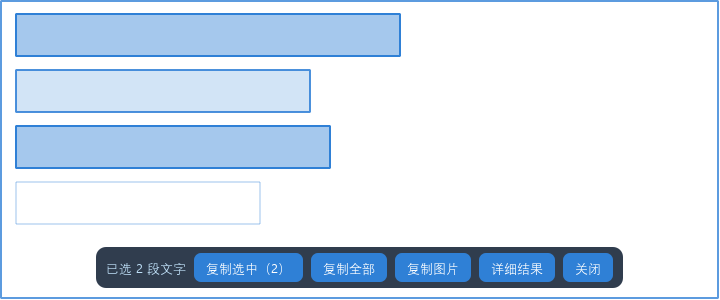
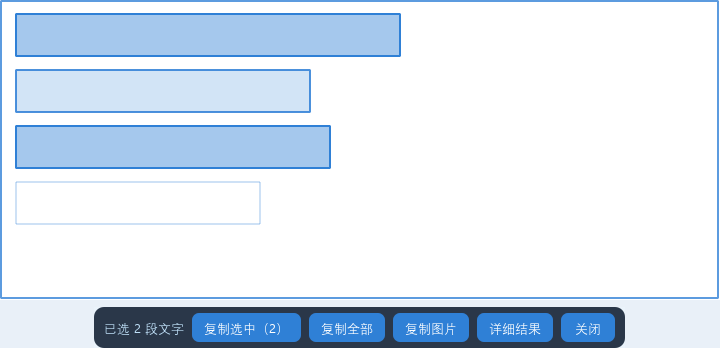
修复小区域浮层不可用：操作条改为独立窗口移到框选区域外，小区域自动放大到最小可用尺寸；v1.1.1

diff --git a/src/onscreen_result.py b/src/onscreen_result.py
@@ -1,7 +1,10 @@
 """屏幕上就地结果面板：识别完成后直接在屏幕原位置选文字复制，无需切回主窗口。
 
-对应交互：快捷键 → 框选 → 屏幕原位置出现结果浮层（截图 + 文字高亮框）
-→ 点击/拖拽框选文字段 → 底部操作条「复制选中 / 复制全部 / 复制图片 / 详细结果 / 关闭」。
+交互：快捷键 → 框选 → 屏幕原位置出现结果浮层（截图 + 文字高亮框）
+→ 点击/拖拽框选文字段 → 操作条「复制选中 / 复制全部 / 复制图片 / 详细结果 / 关闭」。
+
+注意：操作条是**独立的置顶窗口**，位置在框选区域**外面**（下方优先、上方兜底），
+这样即使识别区域很小，也不会遮住文字、也能随时关闭。
 """
 from __future__ import annotations
 
@@ -11,14 +14,67 @@ from PySide6.QtWidgets import (
     QHBoxLayout,
     QLabel,
     QPushButton,
+    QVBoxLayout,
     QWidget,
 )
+
+MIN_PANEL_W = 380   # 面板最小显示宽度（过小区域会自动放大，便于点选）
+MIN_PANEL_H = 170
+BAR_MARGIN = 8      # 操作条与面板的间距
+
+
+class OnScreenToolbar(QWidget):
+    """独立置顶操作条（位于框选区域外）。"""
+
+    def __init__(self, owner: "OnScreenResult"):
+        super().__init__(None)
+        self._owner = owner
+        self.setWindowFlags(
+            Qt.FramelessWindowHint | Qt.WindowStaysOnTopHint | Qt.Tool
+        )
+        self.setAttribute(Qt.WA_ShowWithoutActivating, True)
+
+        outer = QVBoxLayout(self)
+        outer.setContentsMargins(0, 0, 0, 0)
+        bar = QWidget()
+        bar.setObjectName("Bar")
+        bar.setStyleSheet("QWidget#Bar { background: rgba(28, 42, 60, 238); border-radius: 10px; }")
+        outer.addWidget(bar)
+
+        lay = QHBoxLayout(bar)
+        lay.setContentsMargins(10, 6, 10, 6)
+        lay.setSpacing(8)
+
+        self.label_hint = QLabel("点击或拖拽框选文字")
+        self.label_hint.setStyleSheet("color: #BFE0F8; background: transparent;")
+        lay.addWidget(self.label_hint)
+
+        self.btn_copy_sel = QPushButton("复制选中")
+        self.btn_copy_sel.clicked.connect(owner.copy_selected)
+        self.btn_copy_all = QPushButton("复制全部")
+        self.btn_copy_all.clicked.connect(owner.copy_all)
+        self.btn_copy_img = QPushButton("复制图片")
+        self.btn_copy_img.clicked.connect(owner.copy_image)
+        self.btn_detail = QPushButton("详细结果")
+        self.btn_detail.clicked.connect(owner.open_detail.emit)
+        self.btn_close = QPushButton("关闭")
+        self.btn_close.clicked.connect(owner.close)
+        for b in (self.btn_copy_sel, self.btn_copy_all, self.btn_copy_img,
+                  self.btn_detail, self.btn_close):
+            b.setCursor(Qt.PointingHandCursor)
+            b.setFocusPolicy(Qt.NoFocus)   # 焦点留在面板上，Esc 始终有效
+            b.setStyleSheet(
+                "QPushButton { background: #2F80D6; color: white; border: none;"
+                " border-radius: 7px; padding: 6px 12px; }"
+                "QPushButton:hover { background: #2A6FB8; }"
+            )
+            lay.addWidget(b)
 
 
 class OnScreenResult(QWidget):
     """覆盖在截图原位置上的可选中结果浮层。"""
 
-    open_detail = Signal()   # 用户点「详细结果」
+    open_detail = Signal()
     closed = Signal()
 
     def __init__(self, pixmap: QPixmap, items: list[dict], screen, target_rect: QRect,
@@ -32,7 +88,6 @@ class OnScreenResult(QWidget):
         self._hover: int | None = None
         self._band: QRect | None = None
         self._band_start: QPoint | None = None
-        self._status = ""
 
         self.setWindowFlags(
             Qt.FramelessWindowHint | Qt.WindowStaysOnTopHint | Qt.Tool
@@ -41,68 +96,46 @@ class OnScreenResult(QWidget):
         self.setFocusPolicy(Qt.StrongFocus)
         self.setMouseTracking(True)
 
-        # 面板几何：优先贴合原框选位置，超出屏幕时居中缩放
-        geo = target_rect if target_rect is not None and not target_rect.isEmpty() else None
-        if geo is None and screen is not None:
-            geo = screen.geometry()
-        if geo is None:
-            geo = QRect(100, 100, self._pixmap.width(), self._pixmap.height())
-        scr_geo = screen.geometry() if screen is not None else geo
-        if geo.width() > scr_geo.width() or geo.height() > scr_geo.height():
-            w = min(geo.width(), scr_geo.width() - 40)
-            h = min(geo.height(), scr_geo.height() - 40)
-            geo = QRect(scr_geo.x() + (scr_geo.width() - w) // 2,
-                        scr_geo.y() + (scr_geo.height() - h) // 2, w, h)
-        self.setGeometry(geo)
+        scr_geo = screen.geometry() if screen is not None else QRect(0, 0, 1920, 1080)
+        geo = target_rect if target_rect is not None and not target_rect.isEmpty() else scr_geo
+        # 先保证不超出屏幕
+        w = min(geo.width(), scr_geo.width())
+        h = min(geo.height(), scr_geo.height())
+        x = max(scr_geo.x(), min(geo.x(), scr_geo.x() + scr_geo.width() - w))
+        y = max(scr_geo.y(), min(geo.y(), scr_geo.y() + scr_geo.height() - h))
+        # 区域过小时放大到最小可用尺寸（便于点选；位置仍贴近原处）
+        w = min(max(w, MIN_PANEL_W), scr_geo.width())
+        h = min(max(h, MIN_PANEL_H), scr_geo.height())
+        x = max(scr_geo.x(), min(x, scr_geo.x() + scr_geo.width() - w))
+        y = max(scr_geo.y(), min(y, scr_geo.y() + scr_geo.height() - h))
+        self.setGeometry(QRect(x, y, w, h))
 
         # 物理像素 → 面板坐标的缩放系数
         self._scale = (self.width() / self._pixmap.width()) if self._pixmap.width() else 1.0
         self._dpr = dpr or 1.0
 
-        self._build_toolbar()
-        self._layout_toolbar()
+        self.toolbar = OnScreenToolbar(self)
+        self._update_status()
 
-    # ---------- 操作条 ----------
-    def _build_toolbar(self) -> None:
-        self.toolbar = QWidget(self)
-        self.toolbar.setStyleSheet(
-            "background: rgba(28, 42, 60, 232); border-radius: 10px;"
-        )
-        lay = QHBoxLayout(self.toolbar)
-        lay.setContentsMargins(10, 6, 10, 6)
-        lay.setSpacing(8)
-
-        self.label_hint = QLabel("点击或拖拽框选文字")
-        self.label_hint.setStyleSheet("color: #BFE0F8; background: transparent;")
-        lay.addWidget(self.label_hint)
-
-        self.btn_copy_sel = QPushButton("复制选中")
-        self.btn_copy_sel.clicked.connect(self.copy_selected)
-        self.btn_copy_all = QPushButton("复制全部")
-        self.btn_copy_all.clicked.connect(self.copy_all)
-        self.btn_copy_img = QPushButton("复制图片")
-        self.btn_copy_img.clicked.connect(self.copy_image)
-        self.btn_detail = QPushButton("详细结果")
-        self.btn_detail.clicked.connect(self.open_detail.emit)
-        self.btn_close = QPushButton("关闭")
-        self.btn_close.clicked.connect(self.close)
-        for b in (self.btn_copy_sel, self.btn_copy_all, self.btn_copy_img,
-                  self.btn_detail, self.btn_close):
-            b.setCursor(Qt.PointingHandCursor)
-            b.setStyleSheet(
-                "QPushButton { background: #2F80D6; color: white; border: none;"
-                " border-radius: 7px; padding: 6px 12px; }"
-                "QPushButton:hover { background: #2A6FB8; }"
-            )
-            lay.addWidget(b)
-
+    # ---------- 操作条位置：始终在面板外面 ----------
     def _layout_toolbar(self) -> None:
         self.toolbar.adjustSize()
-        w = self.toolbar.width()
-        h = self.toolbar.height()
-        x = max(8, (self.width() - w) // 2)
-        y = max(8, self.height() - h - 12)
-        self.toolbar.move(x, y)
+        tw, th = self.toolbar.width(), self.toolbar.height()
+        scr = self._screen.geometry() if self._screen is not None else self.geometry()
+
+        x = self.geometry().center().x() - tw // 2
+        x = max(scr.x() + BAR_MARGIN, min(x, scr.x() + scr.width() - tw - BAR_MARGIN))
+
+        below = self.geometry().bottom() + BAR_MARGIN
+        above = self.geometry().top() - th - BAR_MARGIN
+        if below + th <= scr.y() + scr.height() - BAR_MARGIN:
+            y = below                      # 下方优先
+        elif above >= scr.y() + BAR_MARGIN:
+            y = above                      # 下方不够 → 放上方
+        else:
+            # 上下都放不下（极端情况）：贴在屏幕底部，且尽量不遮面板
+            y = scr.y() + scr.height() - th - BAR_MARGIN
+        self.toolbar.setGeometry(QRect(x, y, tw, th))
         self.toolbar.raise_()
 
     # ---------- 绘制 ----------
@@ -133,7 +166,6 @@ class OnScreenResult(QWidget):
             p.setBrush(QColor(74, 144, 226, 40))
             p.drawRect(self._band)
 
-        # 外边框
         p.setPen(QPen(QColor(47, 128, 214, 200), 2))
         p.setBrush(Qt.NoBrush)
         p.drawRect(self.rect().adjusted(1, 1, -2, -2))
@@ -168,7 +200,6 @@ class OnScreenResult(QWidget):
             self._update_status()
             self.update()
             return
-        # 空白处：开始框选
         if not (ev.modifiers() & Qt.ControlModifier):
             self._selected.clear()
         self._band_start = pos
@@ -223,8 +254,8 @@ class OnScreenResult(QWidget):
     # ---------- 操作 ----------
     def _update_status(self) -> None:
         n = len(self._selected)
-        self.label_hint.setText(f"已选 {n} 段文字" if n else "点击或拖拽框选文字")
-        self.btn_copy_sel.setText(f"复制选中（{n}）" if n else "复制选中")
+        self.toolbar.label_hint.setText(f"已选 {n} 段文字" if n else "点击或拖拽框选文字")
+        self.toolbar.btn_copy_sel.setText(f"复制选中（{n}）" if n else "复制选中")
         self._layout_toolbar()
 
     def selected_text(self) -> str:
@@ -236,26 +267,26 @@ class OnScreenResult(QWidget):
     def copy_selected(self) -> None:
         text = self.selected_text()
         if not text:
-            self.label_hint.setText("请先点击或框选要复制的文字")
+            self.toolbar.label_hint.setText("请先点击或框选要复制的文字")
             self._layout_toolbar()
             return
         QGuiApplication.clipboard().setText(text)
-        self.label_hint.setText(f"已复制 {len(self._selected)} 段文字 ✓")
+        self.toolbar.label_hint.setText(f"已复制 {len(self._selected)} 段文字 ✓")
         self._layout_toolbar()
 
     def copy_all(self) -> None:
         text = "\n".join(it["text"] for it in self._items if str(it.get("text", "")).strip())
         if not text:
-            self.label_hint.setText("未识别到文字")
+            self.toolbar.label_hint.setText("未识别到文字")
             self._layout_toolbar()
             return
         QGuiApplication.clipboard().setText(text)
-        self.label_hint.setText("已复制全部文字 ✓")
+        self.toolbar.label_hint.setText("已复制全部文字 ✓")
         self._layout_toolbar()
 
     def copy_image(self) -> None:
         QGuiApplication.clipboard().setImage(self._pixmap.toImage())
-        self.label_hint.setText("已复制图片 ✓")
+        self.toolbar.label_hint.setText("已复制图片 ✓")
         self._layout_toolbar()
 
     def resizeEvent(self, ev):
@@ -265,11 +296,17 @@ class OnScreenResult(QWidget):
 
     def showEvent(self, ev):
         super().showEvent(ev)
+        self.toolbar.show()
         self._layout_toolbar()
         self.raise_()
+        self.toolbar.raise_()
         self.activateWindow()
         self.setFocus()
 
     def closeEvent(self, ev):
+        try:
+            self.toolbar.close()
+        except Exception:  # noqa: BLE001
+            pass
         self.closed.emit()
         super().closeEvent(ev)

diff --git a/tests/test_selection_features.py b/tests/test_selection_features.py
@@ -40,6 +40,12 @@ def test_onscreen(app: QApplication) -> None:
     panel.show()
     app.processEvents()
 
+    # 0) 操作条必须是独立窗口且位于面板外面（不被面板遮挡）
+    assert panel.toolbar.isVisible(), "操作条未显示"
+    assert not panel.toolbar.geometry().intersects(panel.geometry()), (
+        f"操作条压在面板上：{panel.toolbar.geometry()} vs {panel.geometry()}"
+    )
+
     # 1) 点击第 1 段 → 选中 1 段 → 复制
     QTest.mouseClick(panel, Qt.LeftButton, Qt.NoModifier, QPoint(60, 25))
     app.processEvents()
@@ -69,13 +75,34 @@ def test_onscreen(app: QApplication) -> None:
     app.processEvents()
     assert panel._selected == {0, 1}, panel._selected
 
-    # 5) Esc 关闭
+    # 5) Esc 关闭（操作条一并关闭）
     closed = {"v": False}
     panel.closed.connect(lambda: closed.update(v=True))
     QTest.keyClick(panel, Qt.Key_Escape)
     app.processEvents()
     assert closed["v"], "Esc 未关闭浮层"
+    assert not panel.toolbar.isVisible(), "操作条未随面板关闭"
     print("PASS：屏幕浮层就地选择复制")
+
+
+def test_tiny_region(app: QApplication) -> None:
+    """极小框选区域：面板自动放大到可用尺寸，操作条仍在外面且能关闭。"""
+    from src.onscreen_result import MIN_PANEL_H, MIN_PANEL_W
+
+    screen = QGuiApplication.primaryScreen()
+    panel = OnScreenResult(make_pixmap(120, 40), ITEMS, screen, QRect(100, 100, 120, 40), dpr=1.0)
+    panel.show()
+    app.processEvents()
+    assert panel.width() >= MIN_PANEL_W, f"面板过小：{panel.width()}"
+    assert panel.height() >= MIN_PANEL_H, f"面板过小：{panel.height()}"
+    assert not panel.toolbar.geometry().intersects(panel.geometry()), "小区域时操作条压住面板"
+
+    closed = {"v": False}
+    panel.closed.connect(lambda: closed.update(v=True))
+    QTest.mouseClick(panel.toolbar.btn_close, Qt.LeftButton)
+    app.processEvents()
+    assert closed["v"], "点「关闭」未关闭浮层"
+    print("PASS：极小区域可用性（放大 + 操作条在外 + 可关闭）")
 
 
 def test_result_multiselect(app: QApplication, tmp: Path) -> None:
@@ -110,6 +137,7 @@ def main() -> int:
     apply_theme(app)
     tmp = Path(tempfile.mkdtemp(prefix="screenscan_sel_"))
     test_onscreen(app)
+    test_tiny_region(app)
     test_result_multiselect(app, tmp)
     print("PASS：新交互测试全部通过")
     return 0

diff --git a/scripts/make_screenshots.py b/scripts/make_screenshots.py
@@ -10,7 +10,8 @@ os.environ.setdefault("QT_QPA_PLATFORM", "offscreen")
 os.environ.setdefault("QT_QPA_FONTDIR", r"C:\Windows\Fonts")
 sys.path.insert(0, str(Path(__file__).parent.parent))
 
-from PySide6.QtGui import QPixmap
+from PySide6.QtCore import QRect
+from PySide6.QtGui import QColor, QGuiApplication, QPainter, QPixmap
 from PySide6.QtWidgets import QApplication
 
 from src.config import Config
@@ -70,7 +71,20 @@ def main() -> int:
     panel._hover = 1
     panel._update_status()
     app.processEvents()
-    panel.grab().save(str(OUT / "onscreen.png"), "PNG")
+    # 操作条是独立窗口，合成到一张图里便于说明
+    panel_grab = panel.grab()
+    bar_grab = panel.toolbar.grab()
+    pg, bg = panel.geometry(), panel.toolbar.geometry()
+    union = pg.united(bg)
+    canvas = QPixmap(union.width(), union.height())
+    canvas.fill(QColor(233, 240, 248))
+    from PySide6.QtGui import QPainter
+
+    painter = QPainter(canvas)
+    painter.drawPixmap(pg.x() - union.x(), pg.y() - union.y(), panel_grab)
+    painter.drawPixmap(bg.x() - union.x(), bg.y() - union.y(), bar_grab)
+    painter.end()
+    canvas.save(str(OUT / "onscreen.png"), "PNG")
     panel.close()
 
     print(f"OK: {OUT}")

diff --git a/src/config.py b/src/config.py
@@ -1,4 +1,4 @@
-"""屏幕扫描助手 - 配置与数据目录管理。"""
+"""屏幕扫描助手 - 配置与数据目录管理。"""
 from __future__ import annotations
 
 import json
@@ -7,7 +7,7 @@ from pathlib import Path
 
 APP_NAME = "ScreenScan"
 APP_TITLE = "屏幕扫描助手"
-APP_VERSION = "1.1.0"
+APP_VERSION = "1.1.1"
 
 DEFAULTS = {
     "hotkey_capture": "alt+s",        # 框选截图识别热键 (pynput 格式)
@@ -64,3 +64,4 @@ class Config:
     def set(self, key: str, value) -> None:
         self.data[key] = value
         self.save()
+

diff --git a/README.md b/README.md
@@ -23,7 +23,7 @@
 
 ## 三、屏幕浮层（识别后直接选字复制）
 
-识别完成后，结果浮层出现在**截图的原位置**（文字上带蓝色高亮框）：
+识别完成后，结果浮层出现在**截图的原位置**（文字上带蓝色高亮框），**操作条位于框选区域外**（下方优先，下方空间不足则显示在上方），小区域也不会被遮挡：
 
 | 操作 | 说明 |
 |------|------|

diff --git a/docs/使用说明.md b/docs/使用说明.md
@@ -29,7 +29,7 @@
 
 ## 四、屏幕浮层：识别后直接选字复制
 
-识别完成后，截图原位置会出现结果浮层，文字上带蓝色高亮框：
+识别完成后，截图原位置会出现结果浮层，文字上带蓝色高亮框；**操作条在框选区域外面**（下方优先，下方放不下则在上方），所以再小的区域也不会被遮住：
 
 ![屏幕浮层](screenshots/onscreen.png)
 
